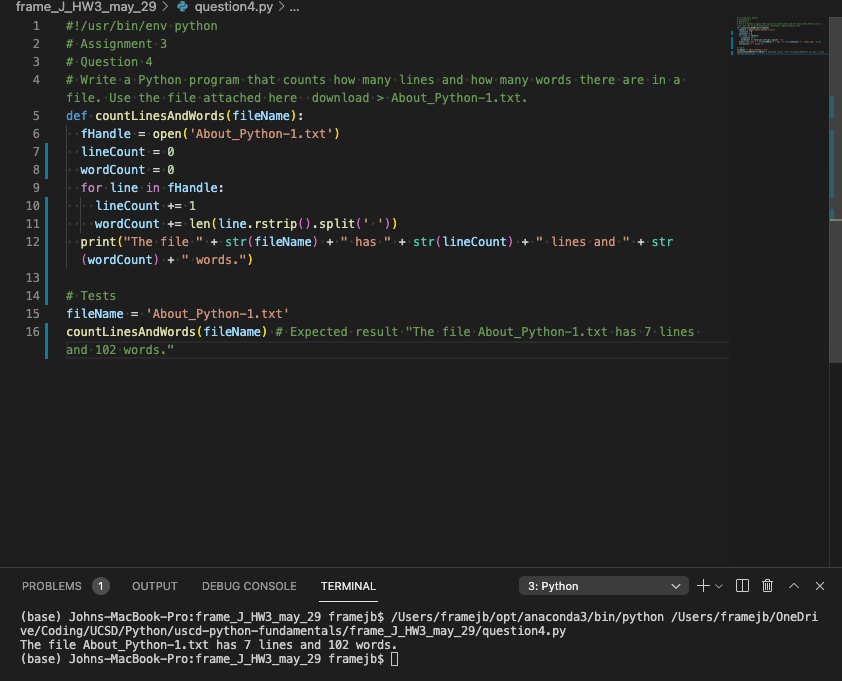
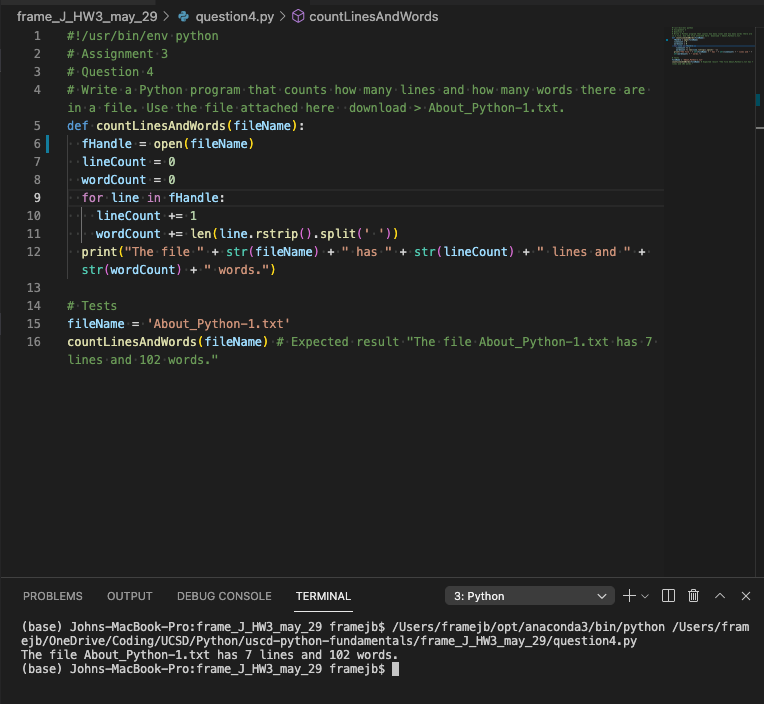
Question 5 complete.

Changed region(s): [[0.0, 0.0, 0.8429, 0.5242], [0.0301, 0.8326, 0.9935, 0.9868], [0.873, 0.0, 1.0, 0.5551]]

diff --git a/frame_J_HW3_may_29/question5.py b/frame_J_HW3_may_29/question5.py
@@ -2,3 +2,22 @@
 # Assignment 3
 # Question 4
 # Write a Python program that reads in the file from the problem above and writes the document completely backward to a new text file (the last letter of the entire document becomes the first and so on so the document can be read from bottom to top and from right to left)
+def writeDocumentBackwardToFile(fileName):
+  fHandle = open(fileName)
+  resultLineList = []
+  result = ""
+  newFHandle = open("DocumentBackward.txt", "w")
+  for line in fHandle:
+    #Assuming that we want to strip excess spaces and keep the same line breaks.
+    stripedLine = line.rstrip()
+    resultLineList.append(stripedLine[::-1])
+  resultLineList.reverse()
+  for i in range(len(resultLineList)):
+    result += resultLineList[i]
+    if i != len(resultLineList) - 1:
+      result += '\n'
+  newFHandle.write(result)
+
+# Tests
+fileName = 'About_Python-1.txt'
+writeDocumentBackwardToFile(fileName) # Expected result: A new file called DocumentBackward.txt with backwards txt is created

diff --git a/frame_J_HW3_may_29/question4.py b/frame_J_HW3_may_29/question4.py
@@ -3,7 +3,7 @@
 # Question 4
 # Write a Python program that counts how many lines and how many words there are in a file. Use the file attached here  download > About_Python-1.txt.
 def countLinesAndWords(fileName):
-  fHandle = open('About_Python-1.txt')
+  fHandle = open(fileName)
   lineCount = 0
   wordCount = 0
   for line in fHandle:
